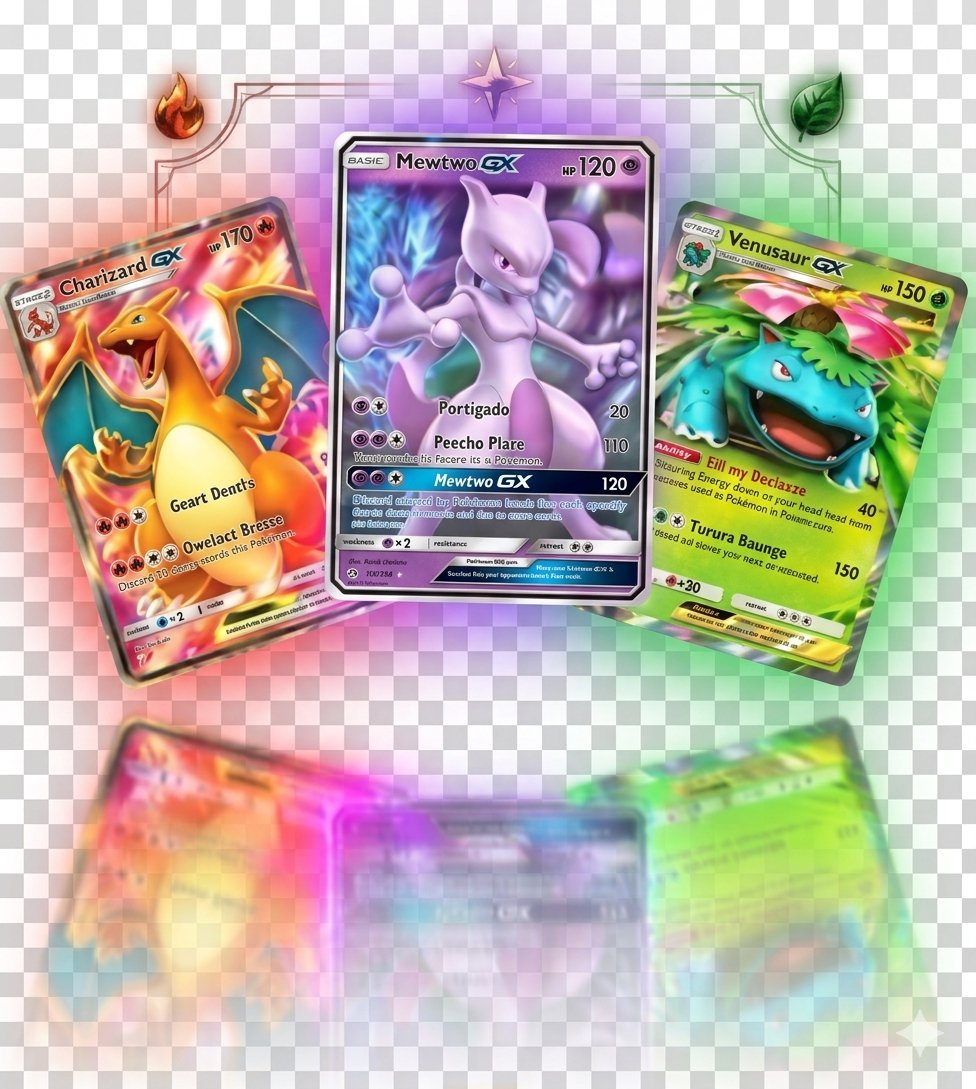
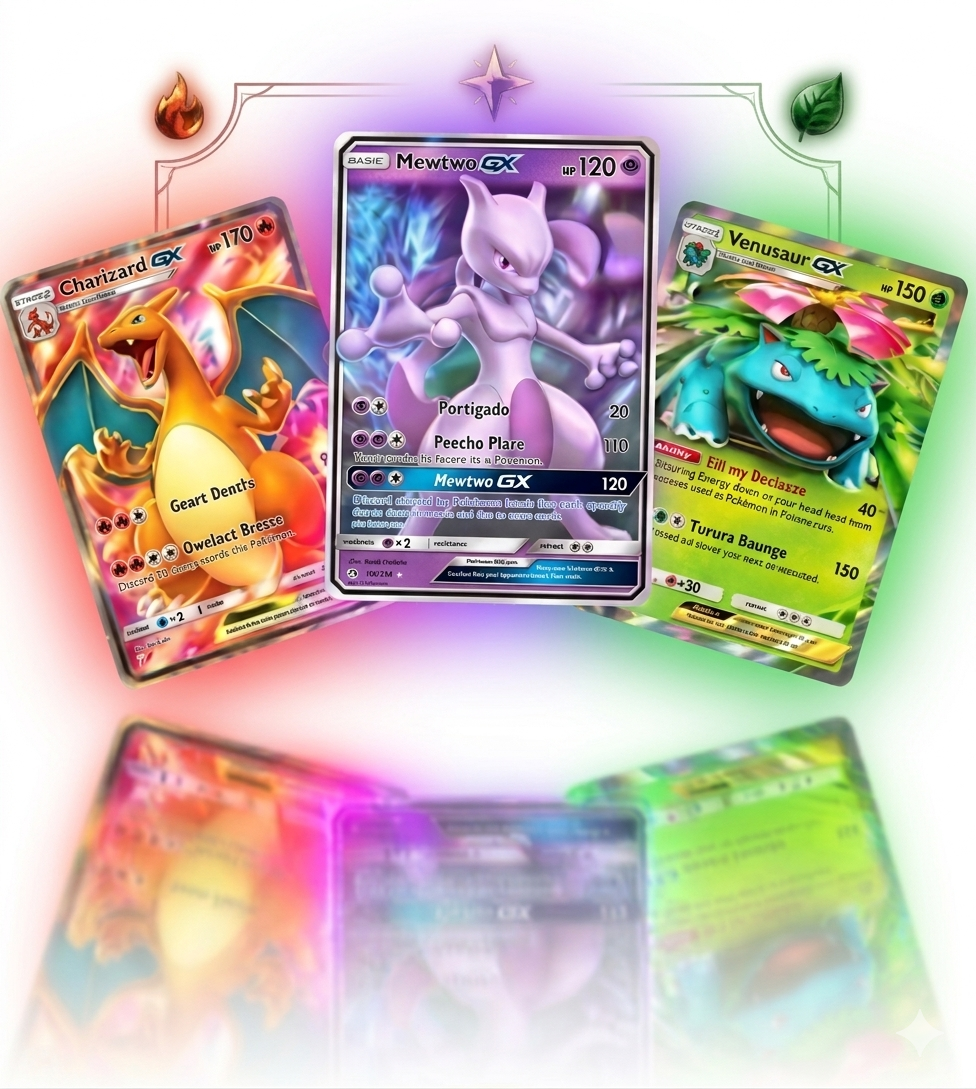
Add files via upload

diff --git a/index.html b/index.html
@@ -274,12 +274,11 @@ body {
     <div class="grid-lines"></div>
   </div>
   <div class="hero-content">
-    <div class="hero-badge">🃏 Komunita sběratelů</div>
     <h1 class="hero-title">
-      Sdílej,&nbsp;vyměň,<br><em>získej</em> co chybí
+      Ovládni svou sbírku.<br><em>Obchoduj s legendami.</em>
     </h1>
     <p class="hero-sub">
-      Nahraj kartičky z tvé Pokémon Cards aplikace a najdi výměnu se sběrateli ve svém okolí.
+      Převeď své fyzické album do digitální podoby. Sleduj hodnotu svých karet, nahrávej fotky a najdi chybějící kusy skrze bezpečné výměny.
     </p>
     <div class="hero-btns">
       <a href="register.html" class="btn-primary">Začít zdarma</a>
@@ -292,17 +291,20 @@ body {
     </div>
   </div>
   <div class="hero-cards-visual">
-    <div class="card-float c1">
-      <img class="card-img" src="ohen.png" alt="Oheň" style="object-fit:cover;padding:0;">
-    </div>
-    <div class="card-float c2">
-      <img class="card-img" src="voda.png" alt="Voda" style="object-fit:cover;padding:0;">
-    </div>
-    <div class="card-float c3">
-      <img class="card-img" src="psychik.png" alt="Psycho" style="object-fit:cover;padding:0;">
-    </div>
-    <div class="card-float c4">
-      <img class="card-img" src="trava.png" alt="Tráva" style="object-fit:cover;padding:0;">
+    <img src="hero-cards.png" alt="Pokémon karty" class="hero-cards-main-img">
+    <div class="hero-cards-grid">
+      <div class="card-float c1">
+        <img class="card-img" src="ohen.png" alt="Oheň" style="object-fit:cover;padding:0;">
+      </div>
+      <div class="card-float c2">
+        <img class="card-img" src="voda.png" alt="Voda" style="object-fit:cover;padding:0;">
+      </div>
+      <div class="card-float c3">
+        <img class="card-img" src="psychik.png" alt="Psycho" style="object-fit:cover;padding:0;">
+      </div>
+      <div class="card-float c4">
+        <img class="card-img" src="trava.png" alt="Tráva" style="object-fit:cover;padding:0;">
+      </div>
     </div>
   </div>
 </section>
